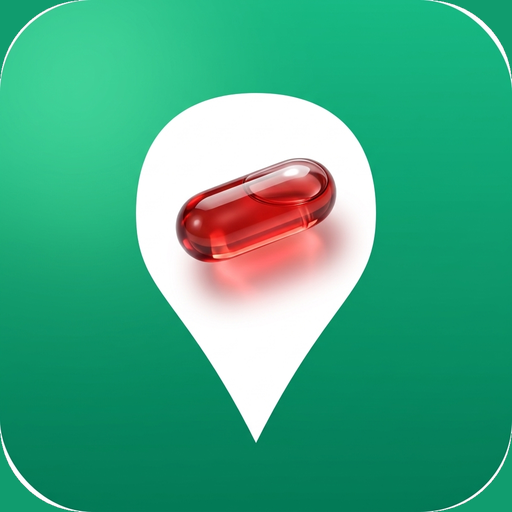
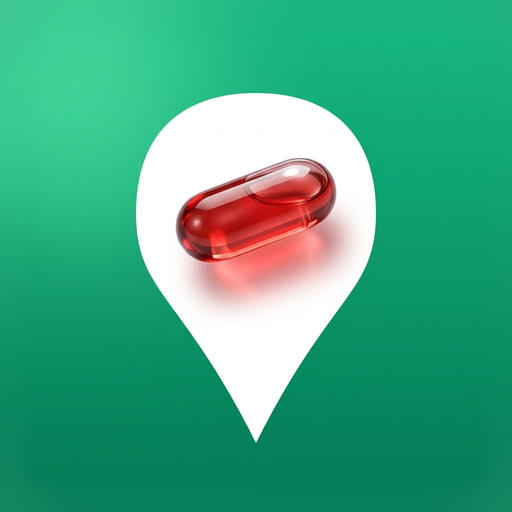
fix(meta): remove white stroke artifacts from og:image
The first og-image flattened the app icon onto a flat green square,
but the icon carries a thin white outline stroke around its rounded
square — visible as white arcs in the corners of the link preview.

Rebuild og-image by diffusing the icon green outward over the
transparent corners, the white stroke and the edge band, keeping the
central pin intact. Result: a clean edge-to-edge green background,
no white slivers. Bump the og:image URL to ?v=2 so messengers drop
the cached version.

diff --git a/frontend/public/index.html b/frontend/public/index.html
@@ -38,7 +38,7 @@
         <meta property="og:title" content="АптекаА — аптечная справочная Москвы и СПб: поиск лекарств, цены и наличие" />
         <meta property="og:description" content="Бесплатная аптечная справочная по Москве и СПб: поиск лекарств, цены и наличие в 2000+ аптеках. Адреса, режим работы, аналоги препаратов. Без регистрации." />
         <meta property="og:url" content="https://aptekaa.ru/" />
-        <meta property="og:image" content="https://aptekaa.ru/og-image.png" />
+        <meta property="og:image" content="https://aptekaa.ru/og-image.png?v=2" />
         <meta property="og:image:type" content="image/png" />
         <meta property="og:image:width" content="512" />
         <meta property="og:image:height" content="512" />
@@ -46,7 +46,7 @@
         <meta name="twitter:card" content="summary" />
         <meta name="twitter:title" content="АптекаА — аптечная справочная Москвы и СПб" />
         <meta name="twitter:description" content="Поиск лекарств, цены и наличие в аптеках Москвы и Санкт-Петербурга. Бесплатно, без регистрации." />
-        <meta name="twitter:image" content="https://aptekaa.ru/og-image.png" />
+        <meta name="twitter:image" content="https://aptekaa.ru/og-image.png?v=2" />
         <script>window.addEventListener("error",function(e){if(e.error instanceof DOMException&&e.error.name==="DataCloneError"&&e.message&&e.message.includes("PerformanceServerTiming")){e.stopImmediatePropagation();e.preventDefault()}},true);</script>
         <!-- Yandex.Metrika counter -->
         <script type="text/javascript">
